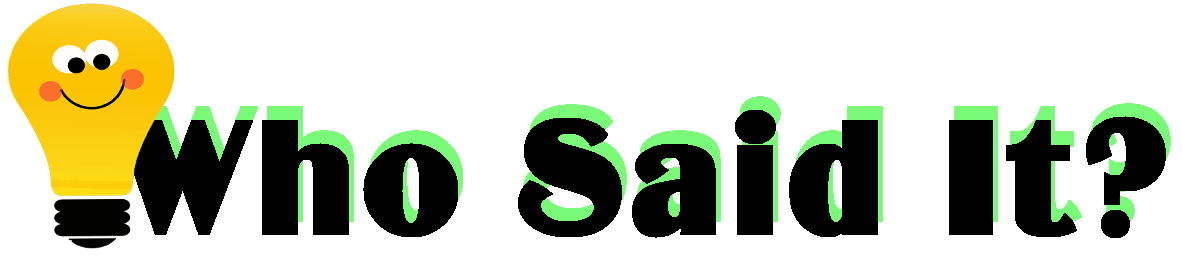
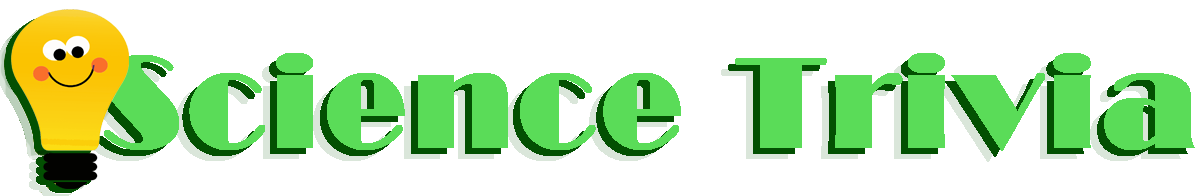
Freshened up question set & UI

diff --git a/assets/javascript/app.js b/assets/javascript/app.js
@@ -34,74 +34,74 @@ var qIndex = 0; // questions array index
 var numAsked = 0; // number of questions asked
 var numCorrect = 0; // number of correct answers
 const questions = [{
-        question: '"Intelligence plus character—that is the goal of true education."',
-        option1: 'Maya Angelou',
-        option2: 'Dr. Martin Luther King Jr.',
-        option3: 'Mahatma Gandhi',
-        answer: 'Dr. Martin Luther King Jr.'
+        question: 'What hormone does the pancreas produce?',
+        option1: 'Prolactin',
+        option2: 'Insulin',
+        option3: 'Adrenaline',
+        answer: 'Insulin'
     },
     {
-        question: '"If you are always trying to be normal you will never know how amazing you can be."',
-        option1: 'Maya Angelou',
-        option2: 'Nelson Mandela',
-        option3: 'Mahatma Gandhi',
-        answer: 'Maya Angelou'
+        question: 'What percent of cells in the human body are bacteria?',
+        option1: '18%',
+        option2: '35%',
+        option3: '90%',
+        answer: '90%'
     },
     {
-        question: '"Be the change that you wish to see in the world."',
-        option1: 'Maya Angelou',
-        option2: 'Mother Teresa',
-        option3: 'Mahatma Gandhi',
-        answer: 'Mahatma Gandhi'
+        question: 'In what type of matter are atoms most tightly packed?',
+        option1: 'Liquid',
+        option2: 'Solid',
+        option3: 'Gas',
+        answer: 'Solid'
     },
     {
-        question: '"If you want to change the world, go home and love your family."',
-        option1: 'Mahatma Gandhi',
-        option2: 'Mother Teresa',
-        option3: 'Dr. Martin Luther King Jr.',
-        answer: 'Mother Teresa'
+        question: 'What planet has the most moons?',
+        option1: 'Jupiter',
+        option2: 'Saturn',
+        option3: 'Uranus',
+        answer: 'Jupiter'
     },
     {
-        question: '"Do not learn how to react learn how to respond."',
-        option1: 'Buddha',
-        option2: 'Confucius',
-        option3: 'Aristotle',
-        answer: 'Buddha'
+        question: 'Hurricanes only form over _____?',
+        option1: 'Warm Water',
+        option2: 'Cold Water',
+        option3: 'Sirrus Clouds',
+        answer: 'Warm Water'
     },
     {
-        question: '"True peace is not merely the absence of tension; it is the presence of justice."',
-        option1: 'Dr. Martin Luther King Jr.',
-        option2: 'Malcolm X',
-        option3: 'Mahatma Gandhi',
-        answer: 'Dr. Martin Luther King Jr.'
+        question: 'Which type of cloud means rain?',
+        option1: 'Alto',
+        option2: 'Cirrus',
+        option3: 'Nimbus',
+        answer: 'Nimbus'
     },
     {
-        question: '"Obstacles are those frightful things you see when you take your eyes off the goal."',
-        option1: 'Steve Jobs',
-        option2: 'Albert Einstein',
-        option3: 'Henry Ford',
-        answer: 'Henry Ford'
+        question: 'Who invented the first battery?',
+        option1: 'Alessandro Volta',
+        option2: 'Isaac Newton',
+        option3: 'Benjamin Franklin',
+        answer: 'Alessandro Volta'
     },
     {
-        question: '"It always seems impossible until it\'s done."',
-        option1: 'Nelson Mandela',
-        option2: 'Dr. Martin Luther King Jr.',
-        option3: 'Mahatma Gandhi',
-        answer: 'Nelson Mandela'
+        question: "What layer of the Earth's atmosphere makes radio communications possible?",
+        option1: 'Stratosphere',
+        option2: 'Thermosphere',
+        option3: 'Ionosphere',
+        answer: 'Ionosphere'
     },
     {
-        question: '"Resentment is like drinking poison and then hoping it will kill your enemies."',
-        option1: 'Mahatma Gandhi',
-        option2: 'Nelson Mandela',
-        option3: 'Dr. Martin Luther King Jr.',
-        answer: 'Nelson Mandela'
+        question: 'How many pencils could you produce from the carbon in the average human body?',
+        option1: '90',
+        option2: '900',
+        option3: '9,000',
+        answer: '9,000'
     },
     {
-        question: '"Only two things are infinite, the universe and human stupidity, and I\'m not sure about the former."',
-        option1: 'Winston Churchill',
-        option2: 'Albert Einstein',
-        option3: 'Isaac Newton',
-        answer: 'Albert Einstein'
+        question: 'What is the most abundant element in the Universe?',
+        option1: 'Hydrogen',
+        option2: 'Iron',
+        option3: 'Carbon',
+        answer: 'Hydrogen'
     }
 ]; // questions
 

diff --git a/index.html b/index.html
@@ -25,7 +25,7 @@
 
     <div id="container">
 
-        <h1><img id="header" src="assets/images/header.png" alt="Who said it trivia quiz"></h1>
+        <header><img id="header" src="assets/images/header.png" alt="Who said it trivia quiz"></header>
 
         <div id="content-wrapper">
             <section id="rules-section">
@@ -49,9 +49,12 @@
                     </label>
                     <fieldset>
                         <legend id="question" class="bold"></legend>
-                        <input type="radio" name="opt" class="option" value="1">&nbsp;<label id="label-1" class="question"></label><br>
-                        <input type="radio" name="opt" class="option" value="2">&nbsp;<label id="label-2" class="question"></label><br>
-                        <input type="radio" name="opt" class="option" value="3">&nbsp;<label id="label-3" class="question"></label><br>
+                        <input type="radio" name="opt" class="option" value="1">&nbsp;<label id="label-1"
+                            class="question"></label><br>
+                        <input type="radio" name="opt" class="option" value="2">&nbsp;<label id="label-2"
+                            class="question"></label><br>
+                        <input type="radio" name="opt" class="option" value="3">&nbsp;<label id="label-3"
+                            class="question"></label><br>
                     </fieldset>
                     <label id="answer" class="bold"></label>
                 </form>

diff --git a/assets/css/style.css b/assets/css/style.css
@@ -53,7 +53,6 @@ h1 {
     font-family: monospace;
     color: white;
     background-color: black;
-    border: 2px inset palegreen;
 }
 
 #container {
@@ -62,7 +61,7 @@ h1 {
 }
 
 #header {
-    width: 33%;
+    width: 75%;
     height: auto;
     margin: auto;
 }
@@ -74,7 +73,7 @@ h1 {
     padding: 20px;
     text-align: left;
     background-color: white;
-    border: 2px inset lightgreen;
+    background: rgba(255, 250, 255, 0.7);
     font-size: large;
     font-family: 'Arial',
         'Helvetica Neue',
